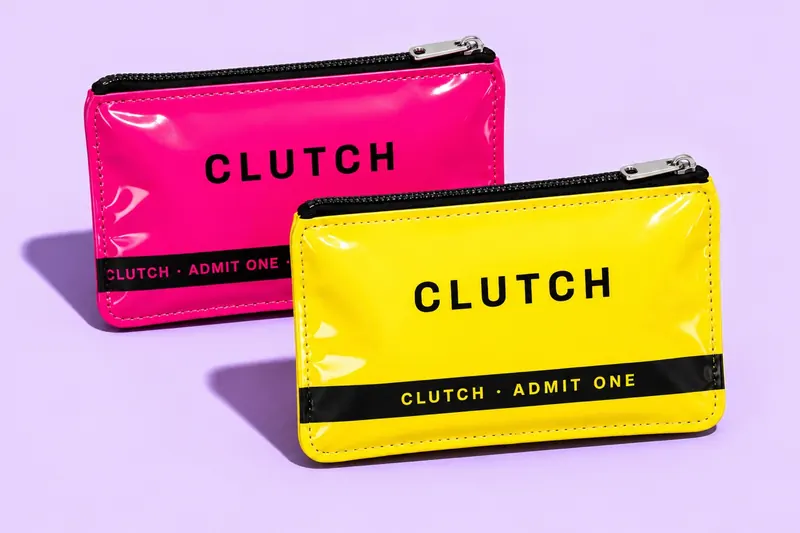
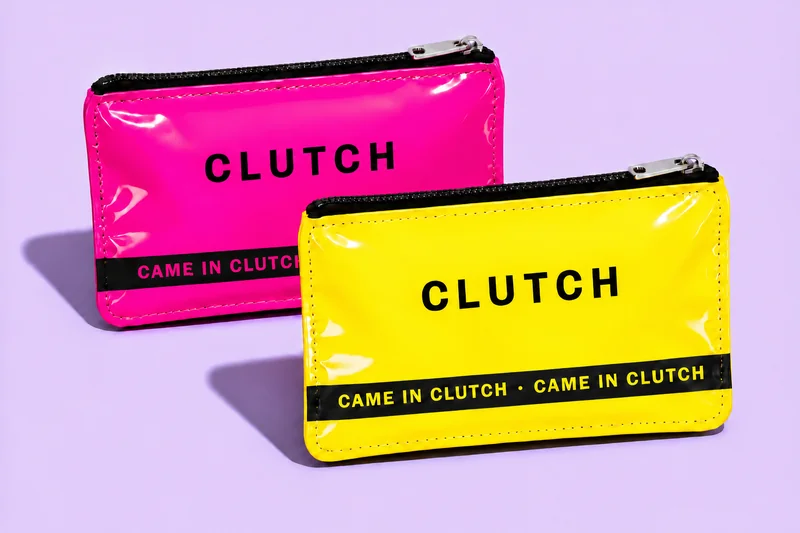
updated

Changed region(s): [[0.0938, 0.06, 0.9375, 0.9006], [0.5, 0.4803, 0.7812, 0.6004]]

diff --git a/src/App.jsx b/src/App.jsx
@@ -3,9 +3,10 @@ import colors1350 from './assets/clutch-colors-1350.webp'
 import colors800 from './assets/clutch-colors-800.webp'
 import './App.css'
 import ClutchMockup from './components/ClutchMockup'
-import { PREORDER_PRICE, RETAIL_PRICE, STRIPE_PREORDER_URL } from './config'
+import { FEEDBACK, PREORDER_PRICE, RETAIL_PRICE, STRIPE_PREORDER_URL } from './config'
 
 const questions = [
+  ['Why buy this when condoms and gum are cheap or free?', 'You can grab those yourself. Clutch is for having everything packed in one pouch before you leave, including the two things most people don’t carry: drink tests and a vomit bag.'],
   ['How much is it?', `$${PREORDER_PRICE} if you preorder. $${RETAIL_PRICE} once the kit launches.`],
   ['When and where do I get one?', 'The first batch is for Emory’s Oxford College in spring 2027. Preorders are picked up on campus.'],
   ['Can my club or chapter get a box?', 'That’s the plan. We’re designing boxes of 25 kits with bonus refills for fraternities, sororities and clubs.'],
@@ -74,7 +75,28 @@ function ThemeToggle() {
   )
 }
 
+const BAND = ['CAME IN CLUTCH', 'Reusable vinyl pouch', 'Fuchsia or lemon', 'Empty slot for your own item']
+
+// Fades sections in as they scroll into view. Skipped when the visitor prefers reduced motion.
+function useScrollReveal() {
+  useEffect(() => {
+    if (window.matchMedia('(prefers-reduced-motion: reduce)').matches || !('IntersectionObserver' in window)) return
+    const root = document.documentElement
+    root.classList.add('reveal-on')
+    const observer = new IntersectionObserver((entries) => {
+      for (const entry of entries) {
+        if (!entry.isIntersecting) continue
+        entry.target.classList.add('is-in')
+        observer.unobserve(entry.target)
+      }
+    }, { threshold: 0.12 })
+    document.querySelectorAll('[data-reveal]').forEach((el) => observer.observe(el))
+    return () => { observer.disconnect(); root.classList.remove('reveal-on') }
+  }, [])
+}
+
 function App() {
+  useScrollReveal()
   return (
     <>
       <SectionLink className="skip-link" to="main">Skip to content</SectionLink>
@@ -95,14 +117,13 @@ function App() {
           <div className="hero-copy">
             <p className="eyebrow"><span aria-hidden="true">✦</span> The going-out kit</p>
             <h1 id="hero-title">CAME IN<br /><em>CLUTCH.</em></h1>
-            <p className="hero-description">Two drink tests, two condoms, a vomit bag and gum in a 4.5 × 3 in pouch that fits a purse.</p>
+            <p className="hero-description">Two drink tests, two condoms, a vomit bag and gum in a 4.5 × 3 in pouch that fits a purse, with one empty slot for your own item.</p>
             <div className="hero-actions">
               <PreorderButton />
               <p className="price"><strong>${PREORDER_PRICE}</strong><span>Preorder<br />${RETAIL_PRICE} at launch</span></p>
             </div>
             <p className="hero-meta">
               <SectionLink className="text-link" to="kit-title">See what’s inside <span aria-hidden="true">↘</span></SectionLink>
-              <span>Oxford College · Spring 2027</span>
             </p>
           </div>
           <figure className="hero-figure">
@@ -110,7 +131,7 @@ function App() {
               src={colors1350}
               srcSet={`${colors800} 800w, ${colors1350} 1350w`}
               sizes="(max-width: 700px) 100vw, 52vw"
-              alt="Fuchsia pink and lemon yellow CLUTCH pouches with black zippers and Admit One bands"
+              alt="Fuchsia pink and lemon yellow CLUTCH pouches with black zippers and black printed bands"
               width="1350"
               height="900"
               fetchPriority="high"
@@ -120,36 +141,60 @@ function App() {
           </figure>
         </section>
 
-        <p className="wristband">
-          <span aria-hidden="true">CLUTCH · ADMIT ONE</span>
-          <span>Reusable vinyl pouch</span>
-          <span>Fuchsia or lemon</span>
-          <span>Room for one extra</span>
-          <span aria-hidden="true">CLUTCH · ADMIT ONE</span>
-        </p>
+        <ul className="facts shell" aria-label="Key facts">
+          <li data-reveal><span>Price</span><strong>${PREORDER_PRICE}</strong><small>preorder · ${RETAIL_PRICE} at launch</small></li>
+          <li data-reveal><span>Size</span><strong>4.5 × 3 in</strong><small>smaller than an index card · about 0.9 in thick packed (estimate)</small></li>
+          <li data-reveal><span>Inside</span><strong>7 items</strong><small>plus one empty slot for your own</small></li>
+          <li data-reveal><span>First batch</span><strong>Spring 2027</strong><small>Oxford College · campus pickup</small></li>
+        </ul>
 
-        <section className="kit shell" id="kit" tabIndex={-1} aria-labelledby="kit-title">
+        <div className="wristband">
+          <div className="wristband-track">
+            {[0, 1].map((copy) => (
+              <p key={copy} aria-hidden={copy === 1 ? 'true' : undefined}>
+                {[...BAND, ...BAND].map((text, i) => <span key={i} aria-hidden={i >= BAND.length ? 'true' : undefined}>{text}</span>)}
+              </p>
+            ))}
+          </div>
+        </div>
+
+        <section className="kit shell" id="kit" tabIndex={-1} aria-labelledby="kit-title" data-reveal>
           <h2 id="kit-title" tabIndex={-1}>WHAT’S INSIDE.</h2>
           <p className="kit-hint">Drag to turn it. Tap an item to see it.</p>
           <ClutchMockup />
         </section>
 
+        {FEEDBACK.length > 0 && (
+          <section className="feedback shell" aria-labelledby="feedback-title" data-reveal>
+            <h2 id="feedback-title">EARLY FEEDBACK.</h2>
+            <p className="feedback-note">From people who have seen the concept. Kits aren’t on sale yet, so these aren’t buyer reviews.</p>
+            <ul className="feedback-list">
+              {FEEDBACK.map(({ quote, name, context }) => (
+                <li key={name + quote}>
+                  <blockquote>“{quote}”</blockquote>
+                  <p><strong>{name}</strong><span>{context}</span></p>
+                </li>
+              ))}
+            </ul>
+          </section>
+        )}
+
         <section className="preorder shell" id="preorder" tabIndex={-1} aria-labelledby="preorder-title">
-          <div className="ticket">
+          <div className="ticket" data-reveal>
             <div className="ticket-copy">
               <p className="eyebrow"><span aria-hidden="true">✦</span> Oxford goes first</p>
               <h2 id="preorder-title">PREORDER<br />{' '}FOR ${PREORDER_PRICE}.</h2>
               <p>The first batch goes to Oxford College in spring 2027. Lock in ${PREORDER_PRICE} now; it’s ${RETAIL_PRICE} at launch.</p>
             </div>
             <div className="ticket-stub">
-              <span>ADMIT ONE</span>
+              <span>CAME IN CLUTCH</span>
               <strong>${PREORDER_PRICE}</strong>
               <PreorderButton />
             </div>
           </div>
         </section>
 
-        <section className="faq shell" id="faq" tabIndex={-1} aria-labelledby="faq-title">
+        <section className="faq shell" id="faq" tabIndex={-1} aria-labelledby="faq-title" data-reveal>
           <h2 id="faq-title">FAQ.</h2>
           <div className="faq-list">
             {questions.map(([question, answer]) => (

diff --git a/src/App.css b/src/App.css
@@ -12,7 +12,10 @@
 .skip-link:focus { transform: none; }
 
 /* Header */
-.site-header { border-bottom: 1px solid var(--edge); }
+.site-header { position: sticky; top: 0; z-index: 4; background: #121318; color: var(--paper); border-bottom: 1px solid #121318; }
+.site-header .wordmark span { color: var(--pink); }
+.site-header .theme-toggle { color: var(--paper); border-color: #5a5d68; }
+.site-header .theme-toggle:hover { color: var(--pink); }
 .nav-layout, .footer-layout { display: flex; align-items: center; justify-content: space-between; gap: 20px; }
 .nav-layout { min-height: 64px; }
 
@@ -85,12 +88,11 @@ h2 { font-size: clamp(3rem, 6.4vw, 5.75rem); }
 a.button-buy:hover { background: var(--lemon); }
 .button-buy.is-soon { background: transparent; color: var(--text); border: 1px dashed var(--edge); cursor: default; }
 
-.price { display: flex; align-items: center; gap: 10px; }
-.price strong { font: 900 2.6rem/.8 var(--display); }
+.price { display: flex; align-items: center; gap: 10px; padding: 9px 13px 8px; background: var(--lemon); color: var(--ink); border: 1px solid var(--ink); box-shadow: 3px 3px var(--ink); transform: rotate(-2deg); }
+.price strong { font: 900 3.4rem/.8 var(--display); }
 .price span { font: 600 .66rem/1.35 var(--mono); text-transform: uppercase; letter-spacing: .06em; }
 
 .hero-meta { display: flex; flex-wrap: wrap; align-items: center; gap: 8px 22px; margin-top: 22px; }
-.hero-meta > span { font: 600 .7rem/1.2 var(--mono); letter-spacing: .08em; text-transform: uppercase; opacity: .75; }
 
 .hero-figure { position: relative; border: 1px solid var(--edge); background: #e2d3ff; }
 .hero-figure img { width: 100%; height: auto; aspect-ratio: 3 / 2; object-fit: cover; }
@@ -116,27 +118,57 @@ a.button-buy:hover { background: var(--lemon); }
 .size-sticker span, figcaption { font: 600 .6rem/1.2 var(--mono); letter-spacing: .07em; }
 figcaption { position: absolute; top: 10px; left: 10px; padding: 5px 7px; text-transform: uppercase; background: var(--paper); color: var(--ink); }
 
-/* Signature: the club wristband */
-.wristband {
-  display: flex;
-  flex-wrap: nowrap;
-  justify-content: center;
-  gap: clamp(14px, 3vw, 44px);
-  overflow: hidden;
-  padding: 11px 16px;
-  background: #121318;
-  color: var(--pink);
-  font: 600 .72rem/1.2 var(--mono);
-  letter-spacing: .14em;
-  text-transform: uppercase;
-  white-space: nowrap;
+/* Key facts: price, size, contents, date */
+.facts { display: grid; grid-template-columns: repeat(4, 1fr); list-style: none; margin-block: 0 clamp(24px, 3.6vw, 52px); padding: 0; border: 1px solid var(--edge); }
+.facts li { display: grid; align-content: start; gap: 6px; padding: 16px 18px 18px; border-left: 1px solid var(--edge); }
+.facts li:first-child { border-left: 0; background: var(--pink); color: var(--ink); }
+.facts span { font: 600 .68rem/1.2 var(--mono); letter-spacing: .12em; text-transform: uppercase; }
+.facts strong { font: 900 clamp(2rem, 3.6vw, 3.1rem)/.86 var(--display); letter-spacing: -.02em; }
+.facts small { font-size: .84rem; line-height: 1.4; }
+
+/* Signature: the pouch band, scrolling */
+.wristband { overflow: hidden; padding: 11px 0; background: #121318; color: var(--pink); font: 600 .72rem/1.2 var(--mono); letter-spacing: .14em; text-transform: uppercase; white-space: nowrap; }
+.wristband-track { display: flex; width: max-content; }
+.wristband p { display: flex; }
+.wristband span { padding-inline: clamp(12px, 2vw, 26px); }
+.wristband span::after { content: '·'; margin-left: clamp(24px, 4vw, 52px); color: var(--lemon); }
+.wristband span:nth-child(4n + 1) { color: var(--lemon); }
+
+/* Motion. Everything here is switched off for visitors who prefer reduced motion. */
+@media (prefers-reduced-motion: no-preference) {
+  .wristband-track { animation: band 36s linear infinite; }
+  .wristband:hover .wristband-track { animation-play-state: paused; }
+  .hero-copy > * { animation: rise .7s cubic-bezier(.2, .8, .2, 1) both; }
+  .hero-copy > :nth-child(2) { animation-delay: .08s; }
+  .hero-copy > :nth-child(3) { animation-delay: .16s; }
+  .hero-copy > :nth-child(4) { animation-delay: .24s; }
+  .hero-copy > :nth-child(5) { animation-delay: .32s; }
+  .hero-figure { animation: rise .8s .15s cubic-bezier(.2, .8, .2, 1) both; }
+  .size-sticker { animation: wobble 5s ease-in-out infinite; }
+  .reveal-on [data-reveal] { opacity: 0; transform: translateY(28px); transition: opacity .6s ease, transform .7s cubic-bezier(.2, .8, .2, 1); }
+  .reveal-on [data-reveal].is-in { opacity: 1; transform: none; }
+  .reveal-on .facts li:nth-child(2) { transition-delay: .08s; }
+  .reveal-on .facts li:nth-child(3) { transition-delay: .16s; }
+  .reveal-on .facts li:nth-child(4) { transition-delay: .24s; }
+  .button-buy, .nav-buy { transition: transform .15s ease, background-color .15s ease; }
+  a.button-buy:hover, .nav-buy:hover { transform: translate(-2px, -2px); box-shadow: 3px 3px var(--ink); }
 }
-.wristband span:not(:first-child)::before { content: '·'; margin-right: clamp(14px, 3vw, 44px); color: var(--lemon); }
-.wristband span[aria-hidden] { color: var(--lemon); }
+@keyframes band { to { transform: translateX(-50%); } }
+@keyframes rise { from { opacity: 0; transform: translateY(22px); } }
+@keyframes wobble { 0%, 100% { transform: rotate(9deg); } 50% { transform: rotate(-4deg) scale(1.04); } }
 
 /* Kit */
 .kit { padding-block: clamp(32px, 4.5vw, 60px) 0; }
 .kit-hint { margin-block: 10px 18px; line-height: 1.5; }
+
+/* Early feedback (hidden until src/config.js has real quotes) */
+.feedback { padding-top: clamp(40px, 6vw, 80px); }
+.feedback-note { margin-block: 10px 18px; max-width: 60ch; line-height: 1.5; }
+.feedback-list { display: grid; grid-template-columns: repeat(auto-fit, minmax(240px, 1fr)); gap: 14px; list-style: none; margin: 0; padding: 0; }
+.feedback-list li { display: grid; align-content: space-between; gap: 16px; padding: 18px; border: 1px solid var(--edge); border-top: 6px solid var(--pink); }
+.feedback-list blockquote { margin: 0; font-size: 1.1rem; font-weight: 700; line-height: 1.35; }
+.feedback-list p { display: grid; gap: 2px; font-size: .84rem; }
+.feedback-list span { font: 600 .66rem/1.3 var(--mono); letter-spacing: .08em; text-transform: uppercase; opacity: .75; }
 
 /* Preorder ticket */
 .preorder { padding-top: clamp(40px, 6vw, 80px); }
@@ -193,7 +225,10 @@ details p { max-width: 54ch; padding: 0 20px 16px 1px; line-height: 1.55; }
   .hero { padding-block: 18px 26px; gap: 20px; }
   h1 { font-size: clamp(4.2rem, 19vw, 6.5rem); margin-block: 12px 16px; }
   .hero-actions { margin-top: 18px; }
-  .wristband { justify-content: flex-start; font-size: .64rem; }
+  .wristband { font-size: .64rem; }
+  .facts { grid-template-columns: 1fr 1fr; }
+  .facts li:nth-child(3) { border-left: 0; }
+  .facts li:nth-child(n + 3) { border-top: 1px solid var(--edge); }
   .ticket { grid-template-columns: 1fr; }
   .ticket-stub { border-left: none; border-top: 2px dashed var(--ink); }
   .ticket-copy h2 br { display: none; }

diff --git a/src/components/ClutchMockup.jsx b/src/components/ClutchMockup.jsx
@@ -34,8 +34,8 @@ const ITEMS = [
     body: <span>GUM · 5 sticks</span>, name: 'Pack of gum', count: 1, unit: 'pack of 5 sticks', text: 'Fresh breath all night.' },
   { id: 'slot', cls: 'i-slot', w: 196, h: 60, z: 22, c: [60, -64], o: [290, -275, 0],
     body: (<><span>Your item</span><small>empty slot</small></>),
-    name: 'Room for your own thing',
-    text: 'Space left for your own lip gloss, travel cologne or a hair tie.' },
+    name: 'Empty slot for your own item',
+    text: 'The kit leaves one slot empty on purpose. Add your own lip gloss, travel cologne or a hair tie.' },
 ];
 
 const keyOf = (it) => it.pair || it.id;
@@ -55,6 +55,7 @@ export default function ClutchMockup() {
   const drag = useRef(null);
   const moved = useRef(false);
   const rotRef = useRef(rot);
+  const touched = useRef(false);
   useEffect(() => { rotRef.current = rot; }, [rot]);
 
   const setOpen = (v) => {
@@ -65,6 +66,7 @@ export default function ClutchMockup() {
   };
 
   const select = (it) => {
+    touched.current = true;
     if (!open) setOpen(true);
     setSelKey(keyOf(it));
   };
@@ -103,6 +105,20 @@ export default function ClutchMockup() {
     };
   }, []);
 
+  // Open the kit by itself the first time it scrolls into view, unless the visitor already touched it.
+  useEffect(() => {
+    const el = stageRef.current;
+    if (!el || typeof IntersectionObserver === 'undefined') return;
+    if (window.matchMedia('(prefers-reduced-motion: reduce)').matches) return;
+    const io = new IntersectionObserver(([entry]) => {
+      if (!entry.isIntersecting) return;
+      io.disconnect();
+      if (!touched.current) setOpen(true);
+    }, { threshold: 0.6 });
+    io.observe(el);
+    return () => io.disconnect();
+  }, []);
+
   // Scale the 880px scene down to fit narrow containers
   useEffect(() => {
     const el = stageRef.current;
@@ -119,6 +135,7 @@ export default function ClutchMockup() {
   }, []);
 
   const onPointerDown = (e) => {
+    touched.current = true;
     drag.current = { x: e.clientX, y: e.clientY, rx: rotRef.current.rx, ry: rotRef.current.ry };
     moved.current = false;
   };
@@ -136,6 +153,7 @@ export default function ClutchMockup() {
           aria-label="3D model of the Clutch kit"
           onPointerDown={onPointerDown}
         >
+          <p className="dims">4.5 × 3 in · about 0.9 in deep</p>
           <div className="scaler" style={{ transform: `scale(${scale})` }}>
             <div className="lift">
               <div className="shadow" />
@@ -171,7 +189,7 @@ export default function ClutchMockup() {
                 <div className="face front">
                   <div className="tape" />
                   <div className="logo">CLUTCH</div>
-                  <div className="band">CLUTCH · ADMIT ONE · CLUTCH · ADMIT ONE</div>
+                  <div className="band">CAME IN CLUTCH · CAME IN CLUTCH</div>
                   <div className="stitch" />
                   <div className="gloss" />
                 </div>
@@ -182,7 +200,7 @@ export default function ClutchMockup() {
 
         <div className="controls">
           <div className="group">
-            <button className="btn primary" type="button" onClick={() => setOpen(!open)}>
+            <button className="btn primary" type="button" onClick={() => { touched.current = true; setOpen(!open); }}>
               {open ? 'Close the kit' : 'Open the kit'}
             </button>
             <button className="btn" type="button" onClick={flip}>

diff --git a/src/config.js b/src/config.js
@@ -10,3 +10,16 @@ export const STRIPE_PREORDER_URL = ''
 // Prices in USD. Also hard-coded in index.html meta tags (HTML can't import JS).
 export const PREORDER_PRICE = 12
 export const RETAIL_PRICE = 15
+
+// ─────────────────────────────────────────────────────────────────────────────
+// EARLY FEEDBACK — real quotes only.
+// The section stays hidden while this list is empty. Add a quote only if:
+//   1. a real person said or wrote it,
+//   2. they agreed to have it shown with their name, and
+//   3. `context` says truthfully how they know Clutch.
+// No star ratings, review counts or "verified buyer" marks until people have
+// actually bought and reviewed a kit. Say so if the person is a friend or founder.
+// Example:
+//   { quote: 'What they said.', name: 'First name L.', context: 'Emory student, saw the concept site' },
+// ─────────────────────────────────────────────────────────────────────────────
+export const FEEDBACK = []

diff --git a/src/components/ClutchMockup.css b/src/components/ClutchMockup.css
@@ -67,3 +67,5 @@
 @media (max-width:800px){.clutch-mockup{grid-template-columns:minmax(0,1fr)}}
 @media (min-width:365px) and (max-width:800px){.clutch-mockup .contents{grid-template-columns:repeat(2,minmax(0,1fr))}}
 @media (prefers-reduced-motion:reduce){.clutch-mockup .lift,.clutch-mockup .rig,.clutch-mockup .flap,.clutch-mockup .pull,.clutch-mockup .item{transition:none}}
+
+.clutch-mockup .dims{position:absolute;left:12px;bottom:12px;white-space:nowrap;z-index:1;margin:0;padding:5px 8px;border:1px solid var(--line);border-radius:6px;background:rgba(18,19,24,.7);color:var(--paper);font:600 11px/1.2 'IBM Plex Mono',monospace;letter-spacing:.06em;pointer-events:none}

diff --git a/index.html b/index.html
@@ -15,7 +15,7 @@
     <meta property="og:image:type" content="image/jpeg" />
     <meta property="og:image:width" content="1200" />
     <meta property="og:image:height" content="1200" />
-    <meta property="og:image:alt" content="Glossy fuchsia CLUTCH pouch with a black top zipper and a horizontal Admit One band" />
+    <meta property="og:image:alt" content="Glossy fuchsia CLUTCH pouch with a band that reads CAME IN CLUTCH · CAME IN CLUTCH" />
     <meta name="twitter:card" content="summary_large_image" />
     <script>
       try {

diff --git a/src/index.css b/src/index.css
@@ -37,7 +37,7 @@ a:focus-visible, button:focus-visible, summary:focus-visible {
 
 h1, h2, h3, p, figure { margin: 0; }
 img { display: block; max-width: 100%; }
-section[id] { scroll-margin-top: 20px; }
+section[id] { scroll-margin-top: 84px; }
 
 @media (prefers-reduced-motion: reduce) {
   html { scroll-behavior: auto; }
